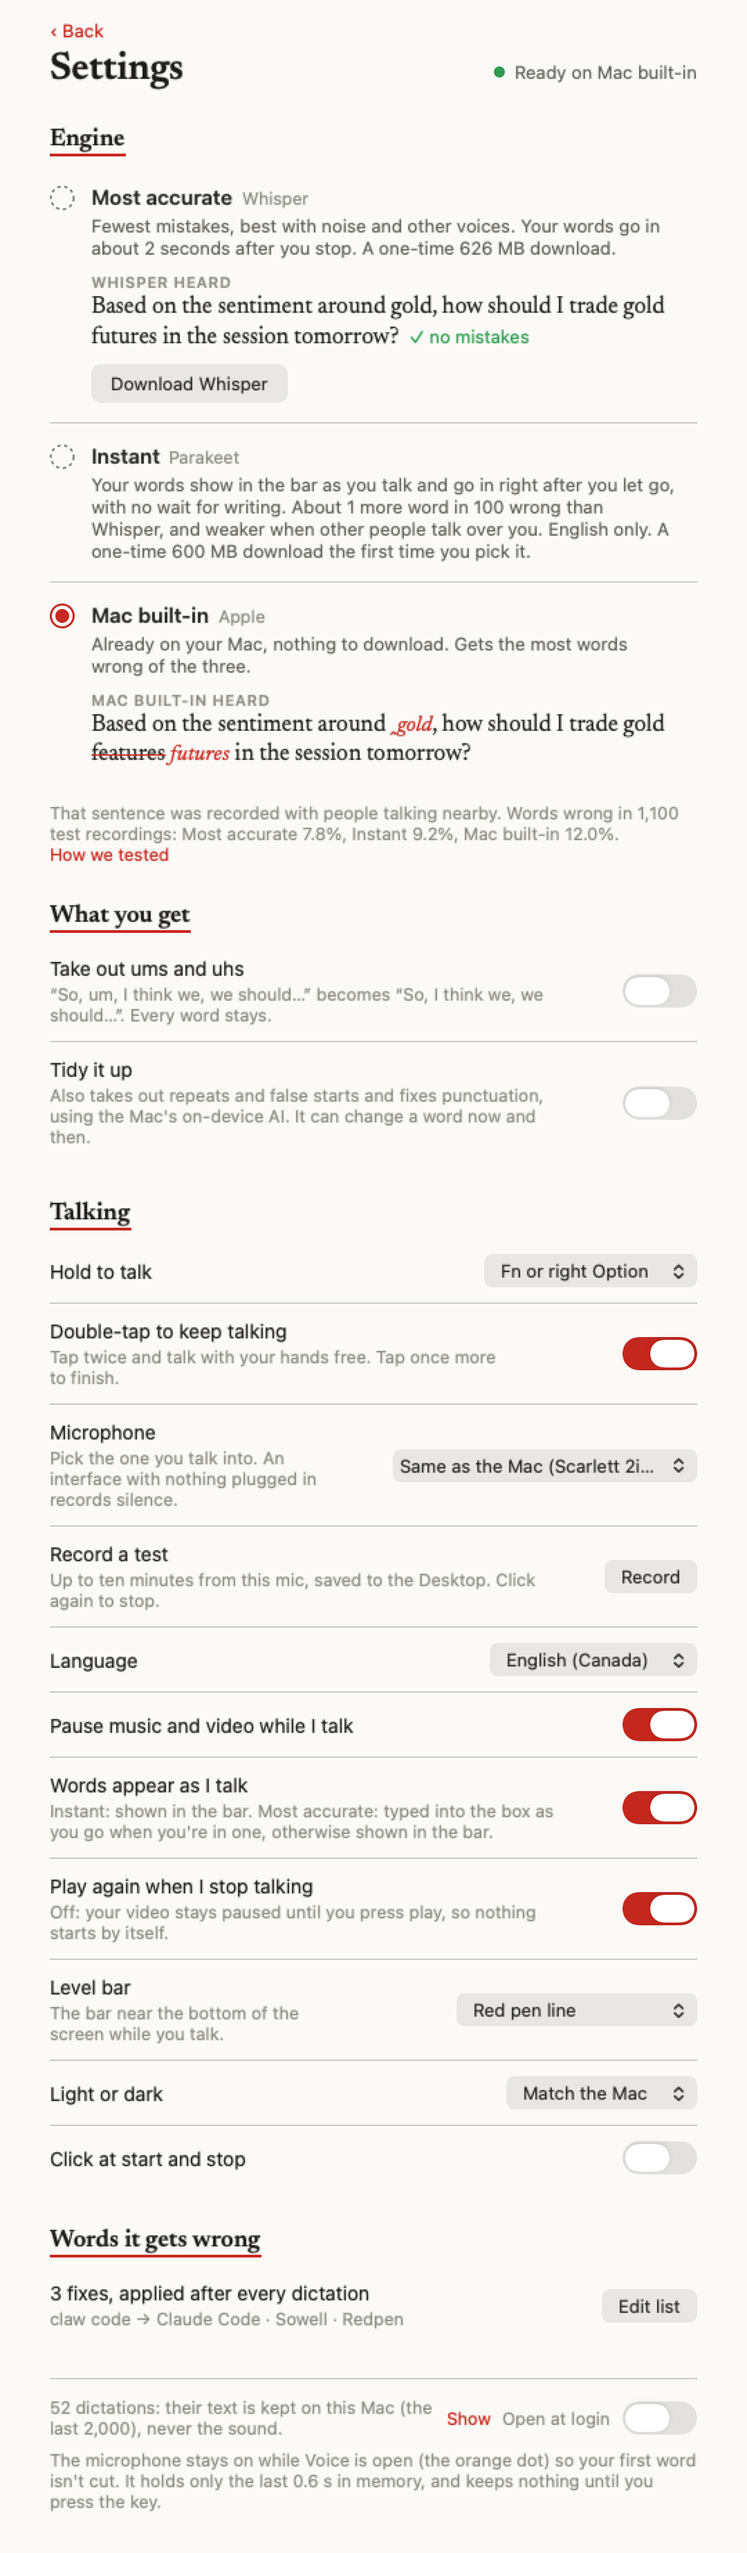
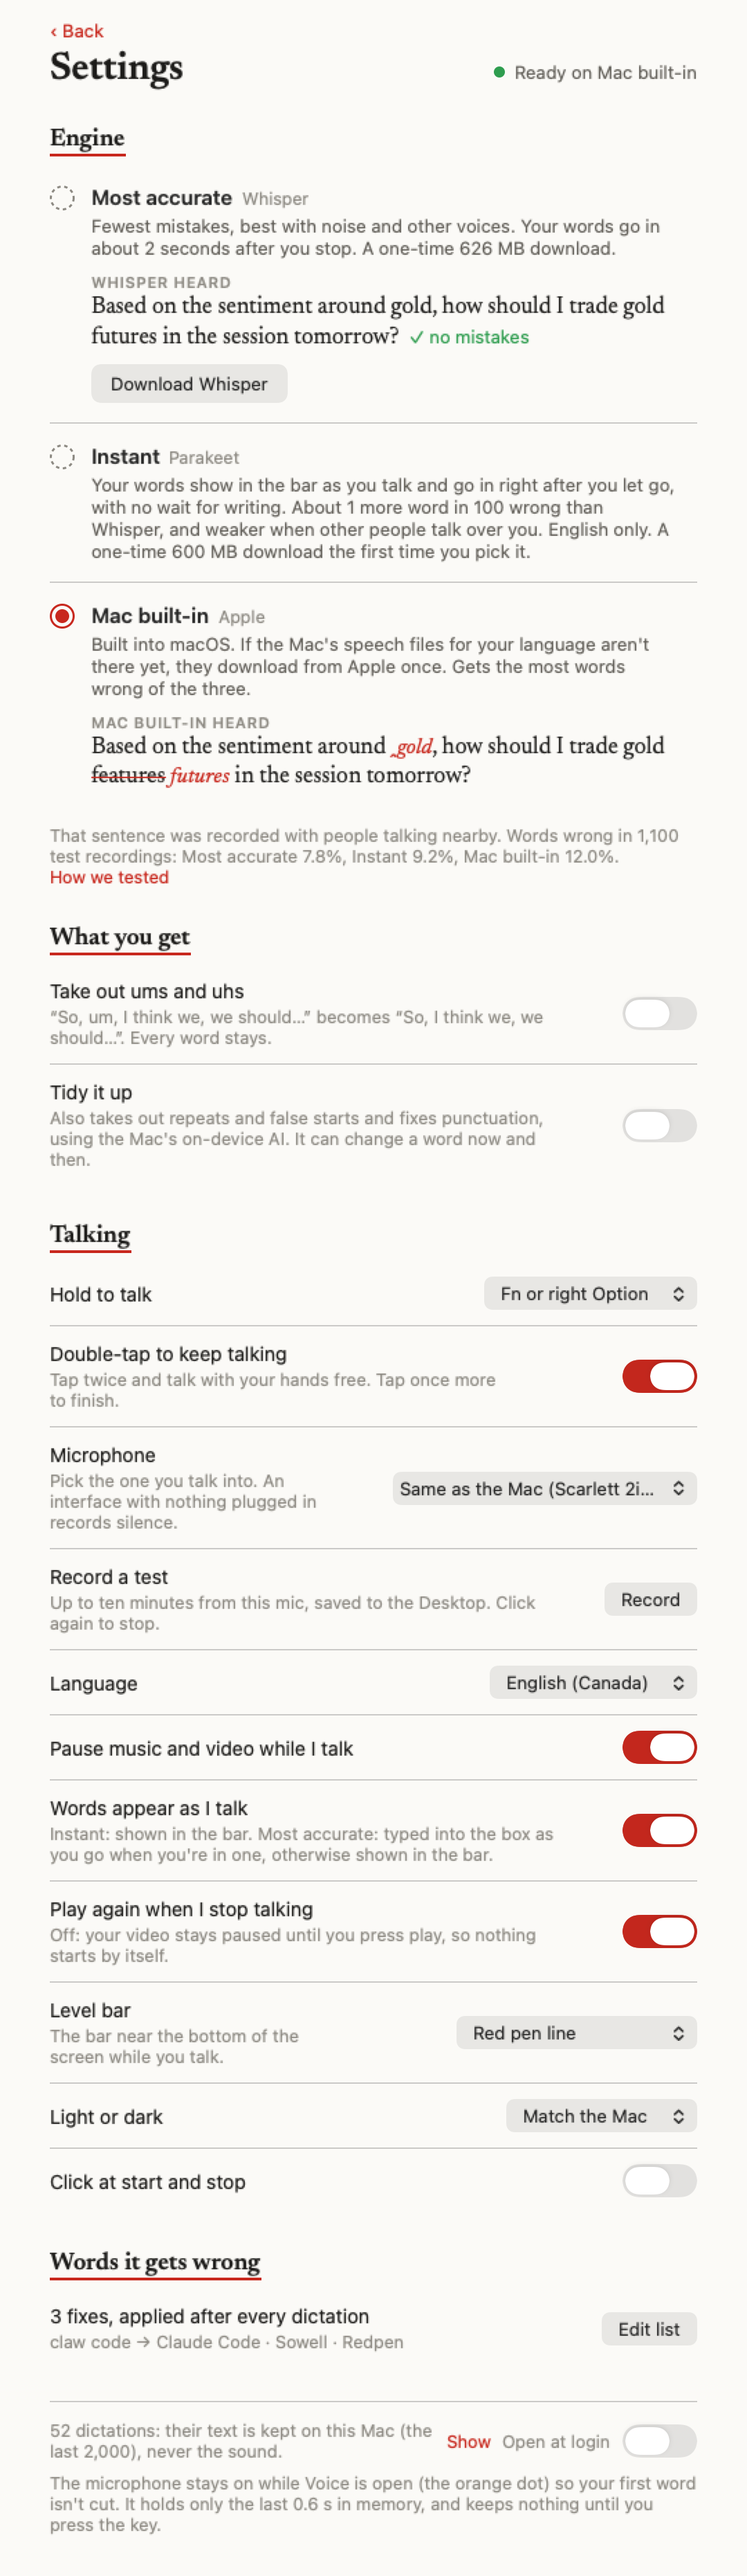
Wording matches the code: the microphone prompt says it stays on with a 0.6 s memory, the system audio prompt says what it hears and keeps; README lists Speech Recognition and system audio, Apple's language download, Instant's engine time and the real total, what the box check guarantees, and credit

diff --git a/Sources/RedpenVoice/SettingsWindow.swift b/Sources/RedpenVoice/SettingsWindow.swift
@@ -259,7 +259,7 @@ struct SettingsView: View {
             Divider().overlay(Ink.line)
             engineRow(on: !model.usesWhisper && !model.usesInstant, dashed: false, action: { model.config.engine = "dictation" }) {
                 title("Mac built-in", "Apple")
-                note("Already on your Mac, nothing to download. Gets the most words wrong of the three.")
+                note("Built into macOS. If the Mac's speech files for your language aren't there yet, they download from Apple once. Gets the most words wrong of the three.")
                 if !model.whisperOnDisk && model.fetch == nil { heard("Mac built-in heard", builtInLine) }
             }
             HStack(alignment: .firstTextBaseline, spacing: 4) {

diff --git a/Sources/RedpenVoice/FirstRun.swift b/Sources/RedpenVoice/FirstRun.swift
@@ -107,7 +107,9 @@ struct FirstRunView: View {
         switch model.engine {
         case "ready": return "Downloaded and ready. Runs on this Mac only."
         case "unsupported": return "This Mac or language is not supported."
-        case let s where s.hasPrefix("downloading"): return "Downloading Apple's speech model " + s.dropFirst(11) + "%…"
+        case let s where s.hasPrefix("downloading"):
+            let name = ["whisper": "Whisper", "live": "Instant", "parakeet": "Instant"][model.config.engine] ?? "Apple's speech model"
+            return "Downloading \(name) " + s.dropFirst(11) + "%…"
         case let s where s.hasPrefix("failed"): return s
         default: return "Checking…"
         }

diff --git a/README.md b/README.md
@@ -17,7 +17,7 @@ Everything runs on your Mac. Your voice is never sent anywhere.
 
    <img src="docs/screenshots/bar-typed.png" alt="The bar after letting go: a green tick and Typed into Notes, where you started" width="287">
 
-3. **Moved somewhere else while it wrote?** The words never go into the wrong box. They wait until you're back in the one you started in, and Control-Option-V pastes them anywhere.
+3. **Moved somewhere else while it wrote?** Before typing, Voice checks it's the same box you started in. If it can't be sure, it types nothing: the words wait until you're back in that box, and Control-Option-V pastes them anywhere.
 
    <img src="docs/screenshots/bar-saved.png" alt="The bar saying the words are saved for Chrome and go in when you are back in that box, or with Control-Option-V" width="612">
 
@@ -43,18 +43,18 @@ Tap the key twice to keep talking with your hands free, and tap once more to fin
 ## What it does
 
 - **Any key you like.** Fn, right Option, or a key you pick in Settings.
-- **Words appear as you talk.** With Instant, your words show in the bar while you talk and go into the box the moment you let go. With Whisper, each stretch is written at your next pause, so a one-minute dictation lands about 2 seconds after you stop; in a text box the words are typed as you go.
+- **Words appear as you talk.** With Instant, your words show in the bar while you talk and go into the box right after you let go. With Whisper, each stretch is written at your next pause, so a one-minute dictation lands about 2 seconds after you stop; in a text box the words are typed as you go.
 - **Your words, as said.** By default nothing is rewritten. Two switches change that:
   - **Take out ums and uhs** removes only the sounds. Every word stays.
   - **Tidy it up** also takes out repeats and false starts and fixes punctuation, using Apple's on-device model. It can change a word now and then.
 - **Three engines, named for what they do.**
   - **Most accurate** is Whisper, OpenAI's model: the fewest mistakes, words about 2 seconds after you stop, a one-time 626 MB download.
-  - **Instant** is Parakeet Unified, NVIDIA's model: it writes while you talk, so your words are ready about 0.05 seconds after you let go, with about 1 more word in 100 wrong than Whisper. English only, a one-time 600 MB download.
-  - **Mac built-in** is already on your Mac, with the most mistakes of the three.
+  - **Instant** is Parakeet Unified, NVIDIA's model: it writes while you talk, so there's no wait for writing (about 0.05 seconds), with about 1 more word in 100 wrong than Whisper. English only, a one-time 600 MB download.
+  - **Mac built-in** is Apple's engine, built into macOS (if the speech files for your language aren't on the Mac yet, they download from Apple once), with the most mistakes of the three.
 - **Words it gets wrong.** A plain list, one per line: `claw code = Claude Code` fixes what it hears, a single name tells it to listen for that name.
 - **Learns your names.** Fix a name by hand after a dictation ("so well" to "Sowell") and the second time you make the same fix, it goes into your list. Only names and terms are learned, never everyday words, and the list stays a plain file you can edit.
 - **Learns how you talk.** Like a driving app that learns how you drive, it learns your pace and how long you pause, and uses that to decide where a thought ends. Only the numbers are kept.
-- **Goes back to the box you started in.** If you move to another app or box while the words are being written, they go into the box you started in, never into the one you moved to. When that app allows it they go straight in; otherwise they wait until you're back in that box. If that box was sent or changed meanwhile, nothing is typed and Paste last has the words. If you started on a web page or a video instead of a text box, nothing is typed there (on a video page, letters are shortcuts): the words wait for you to click into a box.
+- **Goes back to the box you started in.** If you move to another app or box while the words are being written, Voice only types into the box you started in, after checking it's the same box: same place, and its text still starting the way it did. When that app allows it they go straight in; otherwise they wait until you're back in that box. If that box was sent or changed meanwhile, or Voice can't tell, nothing is typed and Paste last has the words. If you started on a web page or a video instead of a text box, nothing is typed there (on a video page, letters are shortcuts): the words wait for you to click into a box.
 - **Fits the sentence.** Dictate into the middle of a sentence and the first word starts lowercase ("and then and we go"), except "I" and names from your list; right before a word, the closing full stop goes. Only in boxes that tell Voice what's around the cursor.
 - **Nothing lost.** Every dictation is kept in a history file on your Mac. Press Control-Option-V to paste the last one again.
 - **Take it back.** Control-Option-Z removes the last dictation, only when it is still the last thing typed.
@@ -85,7 +85,10 @@ Every choice on one page: the engine, how your words come out, the key you talk 
 
 ## The first time you open it
 
-One window asks how your words should come out and walks you through the two permissions it needs: the microphone, and Accessibility so it can type into other apps and see the Fn key. If you talk with Fn, it also checks the Mac's own Fn setting.
+One window asks how your words should come out and walks you through the microphone and Accessibility (so it can type into other apps and see the Fn key). If you talk with Fn, it also checks the Mac's own Fn setting. macOS also asks for:
+
+- **Speech Recognition**, when the app first opens, for Apple's own engine.
+- **System audio**, the first time a video or song is playing when you start talking, so Voice can tell it's playing and take its words off the start of your dictation.
 
 <p align="center">
 <picture>
@@ -98,13 +101,13 @@ One window asks how your words should come out and walks you through the two per
 
 All three engines were run on [WildSpeech-Bench](https://huggingface.co/datasets/tencent/WildSpeech-Bench), 1,100 public recordings of people asking questions: some in quiet rooms, some on the street, some with others talking.
 
-| Engine | Words wrong | Ready after you let go |
+| Engine | Words wrong | Engine's part after the audio ends |
 |---|---|---|
 | Most accurate (Whisper) | 7.8% | about 2 s |
 | Instant (Parakeet Unified) | 9.2% | about 0.05 s |
 | Mac built-in | 12.0% | |
 
-The Instant figure is the model fed in pieces as a microphone would, the way the app runs it. "Ready after you let go" is the engine's part, measured on an M1 Max; Voice also listens a moment longer for a last syllable before it finishes.
+The Instant figure is the model fed in pieces as a microphone would, the way the app runs it. The last column is only the engine's part, measured on an M1 Max. On top of it, Voice keeps listening 0.1 seconds after you let go (0.5 seconds if you were still talking) and then types the words: across 19 real dictations that part took a median 0.58 seconds (0.17 seconds when you'd already stopped talking). So with Instant, words land about 0.6 seconds after you let go.
 
 On [TORGO](https://www.cs.toronto.edu/~complingweb/data/TORGO/torgo.html), recordings of slurred speech from people with dysarthria, Whisper got 32.2% of words wrong and the built-in engine 39.4%. On the clear speech in the same set, 2.2% and 7.7%.
 
@@ -118,13 +121,13 @@ On [TORGO](https://www.cs.toronto.edu/~complingweb/data/TORGO/torgo.html), recor
 - **The microphone stays on while Voice is open**, so the Mac's orange microphone dot stays lit. It holds only the last 0.6 seconds in memory, so the word you say as the key goes down isn't cut, and that is overwritten continuously. Nothing is kept until you press the key.
 - **Text boxes.** It reads the box you're dictating into, on your Mac: when you start (so the words go back to the right box) and after (to learn the names you fix). Only the fixed names are kept.
 - **Videos.** When it pauses a video, it listens to that app's sound for about a second, in memory only, to take the video's words off the start of your dictation.
-- **Network.** The Whisper or Instant model downloads once from Hugging Face if you choose one, and the app checks GitHub once a day for a newer version.
+- **Network.** The Whisper or Instant model downloads once from Hugging Face if you choose one; Apple's speech files for your language download once from Apple if the Mac doesn't have them yet; and the app checks GitHub once a day for a newer version.
 
 ## Install
 
 Download `Redpen-Voice-0.11.dmg` from the [latest release](https://github.com/cjaynewton/redpen-voice-mac/releases/latest), open it and drag Redpen Voice to Applications. It needs macOS 26 on a Mac with Apple silicon, and updates itself.
 
-First run asks for the microphone and Accessibility (to type into other apps and see the Fn key). If you talk with Fn, set "Press 🌐 key to" to Do Nothing in Keyboard settings, or the Mac also opens its own dictation or the emoji picker.
+First run asks for the microphone and Accessibility (to type into other apps and see the Fn key); macOS also asks for Speech Recognition, and for system audio the first time a video is playing when you talk. If you talk with Fn, set "Press 🌐 key to" to Do Nothing in Keyboard settings, or the Mac also opens its own dictation or the emoji picker.
 
 ### Build from source
 
@@ -152,6 +155,7 @@ Runs the checks for the parts that need no microphone: the word list, history, t
 
 ## Credits
 
+- [Whisper](https://github.com/openai/whisper) by OpenAI (MIT), the Most accurate engine's model.
 - [WhisperKit](https://github.com/argmaxinc/argmax-oss-swift) by Argmax runs Whisper on the Mac.
 - [FluidAudio](https://github.com/FluidInference/FluidAudio) by Fluid Inference (Apache 2.0) runs Parakeet on the Mac.
 - [Parakeet Unified 0.6B](https://huggingface.co/nvidia/parakeet-unified-en-0.6b) by NVIDIA, the Instant engine's model, under [CC BY 4.0](https://creativecommons.org/licenses/by/4.0/), converted for the Mac by [Fluid Inference](https://huggingface.co/FluidInference/parakeet-unified-en-0.6b-coreml).
